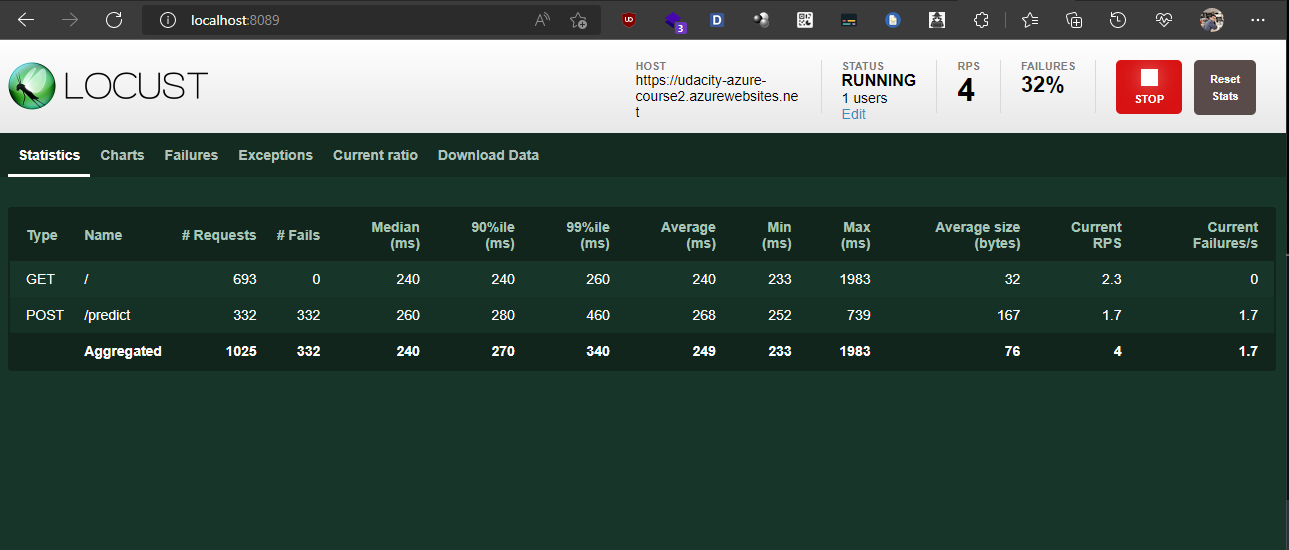
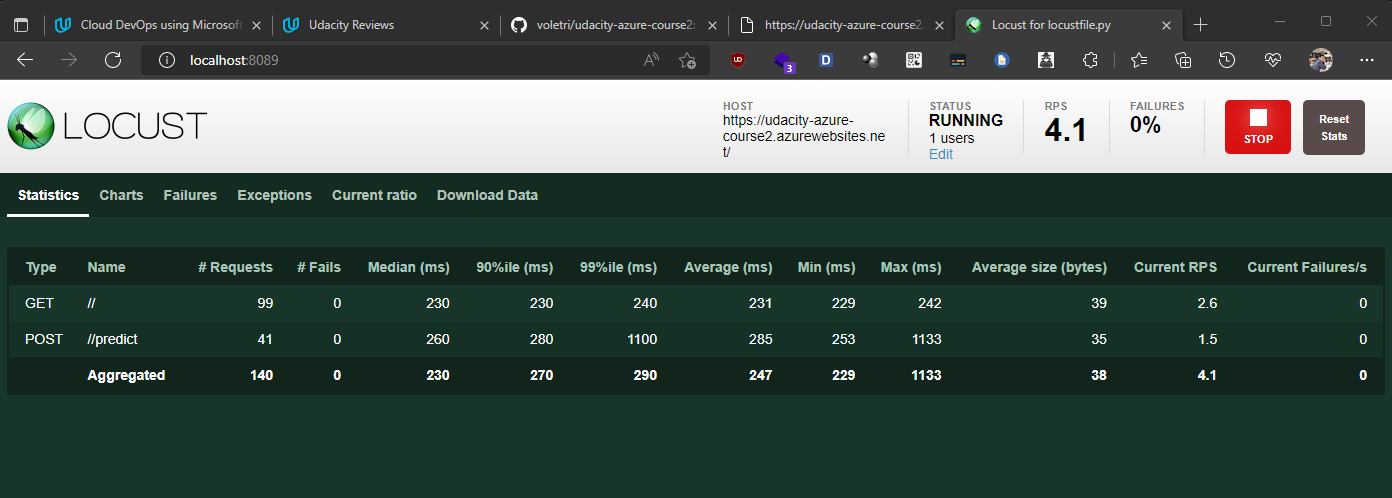
update locustfile

diff --git a/locustfile.py b/locustfile.py
@@ -8,8 +8,9 @@ class MyLocust(HttpUser):
 
     @task(1)
     def predict(self):
-        self.client.post("/predict")
-
+        data = {"CHAS": {"0": 0}, "RM": {"0": 6.575}, "TAX": {"0": 296.0}, "PTRATIO": {"0": 15.3}, "B": {"0": 396.9},
+            "LSTAT": {"0": 4.98}}
+        self.client.post("/predict", json= data)
     min_wait = 1000
     max_wait = 5000
    
